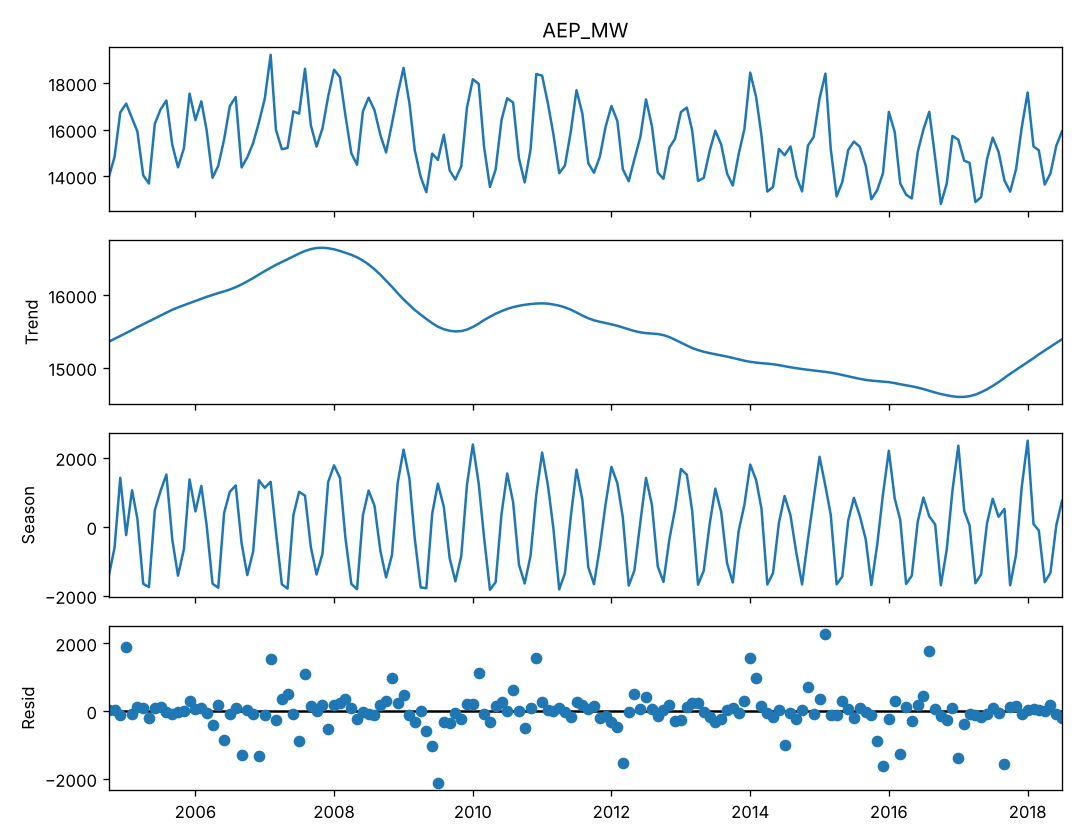
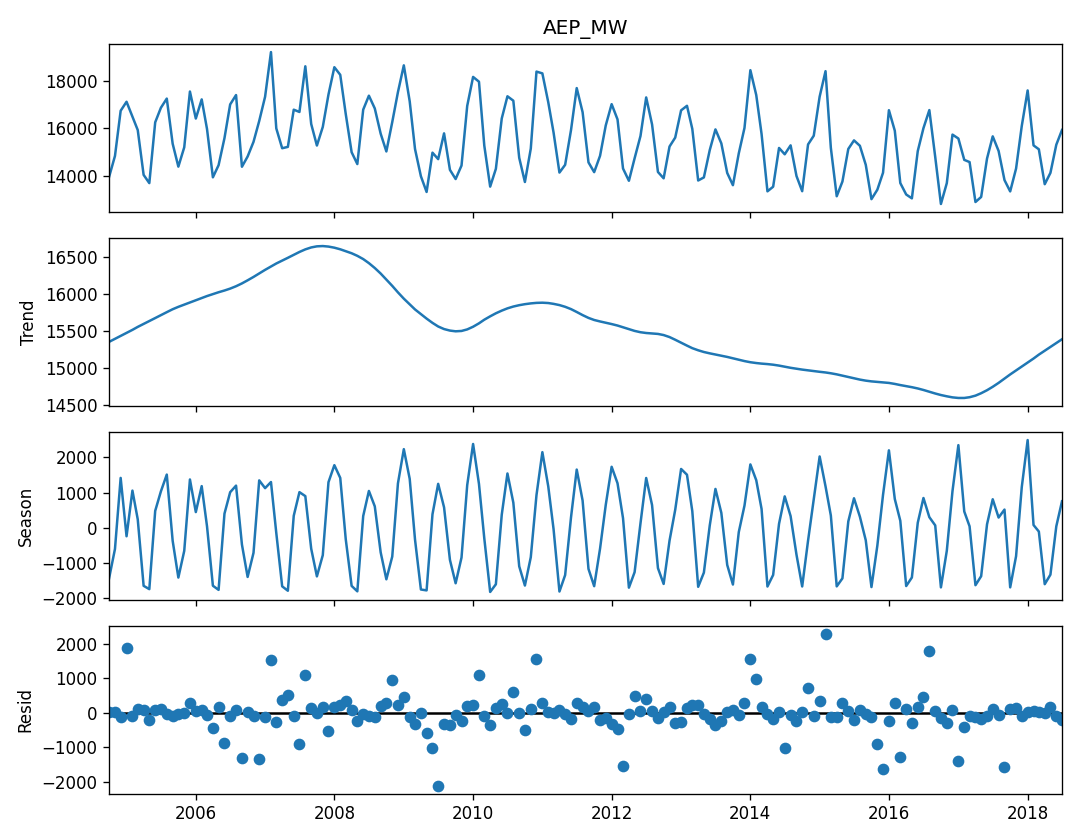
parte 3: ADF, elección de d y D, ACF/PACF de diff(12) e informe sección 4

diff --git a/miniproyecto.py b/miniproyecto.py
@@ -141,12 +141,71 @@ def descomponer(serie):
 # ============================================================
 
 def estacionariedad(serie):
-    """TODO: ADF sobre la serie, su diferencia regular, la estacional y las dos.
+    """ADF sobre la serie, su diferencia regular, la estacional y las dos.
 
-    Imprima el valor p de cada versión, elija d y D, y guarde la ACF y la
-    PACF de la serie elegida en figuras/acf_pacf.png. Devuelva (d, D).
+    Imprime el valor p de cada versión, elige d y D, y guarda la ACF y la
+    PACF de la serie elegida en figuras/acf_pacf.png. Devuelve (d, D).
     """
-    raise NotImplementedError("estacionariedad, ACF y PACF")
+    from statsmodels.graphics.tsaplots import plot_acf, plot_pacf
+    from statsmodels.tsa.stattools import acf, adfuller, pacf
+
+    # (nombre, d, D, versión). La original tiene tendencia visible, así que
+    # se prueba con constante y tendencia ("ct"); las diferenciadas ya no la
+    # tienen y se prueban solo con constante ("c").
+    versiones = [
+        ("original", 0, 0, serie),
+        ("diff(12)", 0, 1, serie.diff(PERIODO)),
+        ("diff()", 1, 0, serie.diff()),
+        ("diff(12).diff()", 1, 1, serie.diff(PERIODO).diff()),
+    ]
+    print("\nParte 3. Prueba ADF (H0: raíz unitaria)")
+    print(f"  {'versión':<16} {'d':>2} {'D':>2} {'regression':>10} {'valor p':>9}")
+    filas = []
+    for nombre, d, D, version in versiones:
+        regresion = "ct" if nombre == "original" else "c"
+        valor_p = adfuller(version.dropna(), regression=regresion)[1]
+        filas.append((nombre, d, D, valor_p))
+        print(f"  {nombre:<16} {d:>2} {D:>2} {regresion:>10} {valor_p:>9.4f}")
+
+    # Regla: la combinación con menos diferencias cuyo valor p queda bajo
+    # 0,05. Si empatan la regular y la estacional, se prefiere la estacional
+    # (por eso va antes en la lista): la estacionalidad es lo más marcado de
+    # la serie y solo diff(12) la quita.
+    estacionarias = [f for f in filas if f[3] < 0.05]
+    nombre, d, D, valor_p = min(estacionarias, key=lambda f: f[1] + f[2])
+    print(f"  elegida: {nombre} -> d = {d}, D = {D} (valor p {valor_p:.4f})")
+
+    elegida = serie
+    if D:
+        elegida = elegida.diff(PERIODO)
+    if d:
+        elegida = elegida.diff()
+    elegida = elegida.dropna()
+
+    rezagos = 36
+    figura, ejes = plt.subplots(2, 1, figsize=(9, 6))
+    plot_acf(elegida, lags=rezagos, ax=ejes[0], title=f"ACF de {nombre}")
+    plot_pacf(elegida, lags=rezagos, ax=ejes[1], method="ywm",
+              title=f"PACF de {nombre}")
+    figura.tight_layout()
+    figura.savefig(FIGURAS / "acf_pacf.png", dpi=120)
+    plt.close(figura)
+
+    # Rezagos fuera de las bandas del 95 %, las mismas que dibujan las gráficas.
+    valores_acf, bandas_acf = acf(elegida, nlags=rezagos, alpha=0.05)
+    valores_pacf, bandas_pacf = pacf(elegida, nlags=rezagos, alpha=0.05, method="ywm")
+
+    def fuera(bandas):
+        return [k for k in range(1, rezagos + 1)
+                if not bandas[k, 0] <= 0 <= bandas[k, 1]]
+
+    fuera_acf, fuera_pacf = fuera(bandas_acf), fuera(bandas_pacf)
+    print(f"  ACF, rezagos fuera de las bandas: {fuera_acf}")
+    print(f"  PACF, rezagos fuera de las bandas: {fuera_pacf}")
+    print("  rezago |  ACF  | PACF")
+    for k in sorted(set(fuera_acf) | set(fuera_pacf) | {12, 24, 36}):
+        print(f"  {k:>6} | {valores_acf[k]:+.2f} | {valores_pacf[k]:+.2f}")
+    return d, D
 
 
 # ============================================================

diff --git a/docs/informe.md b/docs/informe.md
@@ -156,12 +156,68 @@ modelos de la sección 5.
 
 ## 4. Estacionariedad e identificación
 
-{{Valor p de la prueba ADF para la serie, su diferencia regular, la
-estacional y las dos juntas. El d y el D elegidos.}}
+La prueba ADF estima
+
+$$\Delta y_t = \alpha + \beta t + \gamma\, y_{t-1} + \sum_{j=1}^{k}\delta_j\,\Delta y_{t-j} + \varepsilon_t$$
+
+con hipótesis nula $H_0: \gamma = 0$ (raíz unitaria, serie no estacionaria).
+Un valor p menor que 0,05 rechaza $H_0$. La serie original tiene una
+tendencia visible, así que se prueba con constante y tendencia
+(`regression="ct"`, con el término $\beta t$). Las versiones diferenciadas ya
+no la tienen y se prueban solo con constante (`regression="c"`, $\beta = 0$).
+
+| Versión | d | D | `regression` | Valor p |
+|---|---|---|---|---|
+| Original | 0 | 0 | `ct` | 0,0858 |
+| `diff(12)` | 0 | 1 | `c` | 0,0016 |
+| `diff()` | 1 | 0 | `c` | 0,0012 |
+| `diff(12).diff()` | 1 | 1 | `c` | 0,0003 |
+
+La serie original no rechaza $H_0$ (0,0858 > 0,05). Las tres versiones
+diferenciadas sí. La regla es elegir la combinación con menos diferencias
+cuyo valor p quede bajo 0,05, y aquí empatan `diff()` y `diff(12)`, cada una
+con una sola diferencia. Elegimos $d = 0$ y $D = 1$, es decir,
+$w_t = (1 - B^{12})\,y_t = y_t - y_{t-12}$. Preferimos la diferencia
+estacional porque la estacionalidad es el rasgo más marcado de la serie y
+solo `diff(12)` la quita. Como la tendencia cambia despacio, esa misma
+diferencia también elimina buena parte de ella. Agregar la diferencia regular
+($d = D = 1$) bajaría el valor p, pero con el riesgo de sobrediferenciar.
 
 ![ACF y PACF](../figuras/acf_pacf.png)
 
-{{Qué rezagos salen de las bandas y qué órdenes sugieren.}}
+En la ACF de $w_t$ salen de las bandas del 95 % los rezagos 1, 2, 3, 4 y
+12. En la PACF salen los rezagos 1, 3, 12, 21 y 24.
+
+| Rezago | ACF | PACF |
+|---|---|---|
+| 1 | +0,44 | +0,44 |
+| 2 | +0,26 | +0,09 |
+| 3 | +0,36 | +0,27 |
+| 4 | +0,24 | −0,01 |
+| 12 | −0,27 | −0,32 |
+| 21 | −0,15 | −0,20 |
+| 24 | −0,23 | −0,20 |
+| 36 | +0,01 | −0,13 |
+
+### Parte no estacional
+
+La ACF es positiva y decae lentamente en los
+primeros cuatro rezagos. La PACF, en cambio, tiene picos en los rezagos 1 y 3
+y queda dentro de las bandas en el 2 y el 4. Ese patrón sugiere un término
+autorregresivo de orden bajo, $p$ entre 1 y 3, con $q$ de 0 a 2 para
+recoger lo que quede.
+
+### Parte estacional
+
+Después de `diff(12)`, la ACF tiene un pico negativo en
+el rezago 12 (−0,27) y luego se apaga (+0,01 en el 36). La PACF es negativa
+y decae en los rezagos estacionales (−0,32 en el 12, −0,20 en el 24 y −0,13
+en el 36). Un pico aislado en el rezago 12 de la ACF, con una PACF que decae
+en 12, 24 y 36, corresponde a un MA estacional de orden 1, frecuente después
+de aplicar la diferencia estacional. Por eso proponemos $Q = 1$ y $P = 0$, sin
+otra diferencia. La
+rejilla de la sección 5 prueba estos órdenes alrededor de
+$(p, 0, q)(0, 1, 1)_{12}$.
 
 ## 5. Modelos clásicos
 
